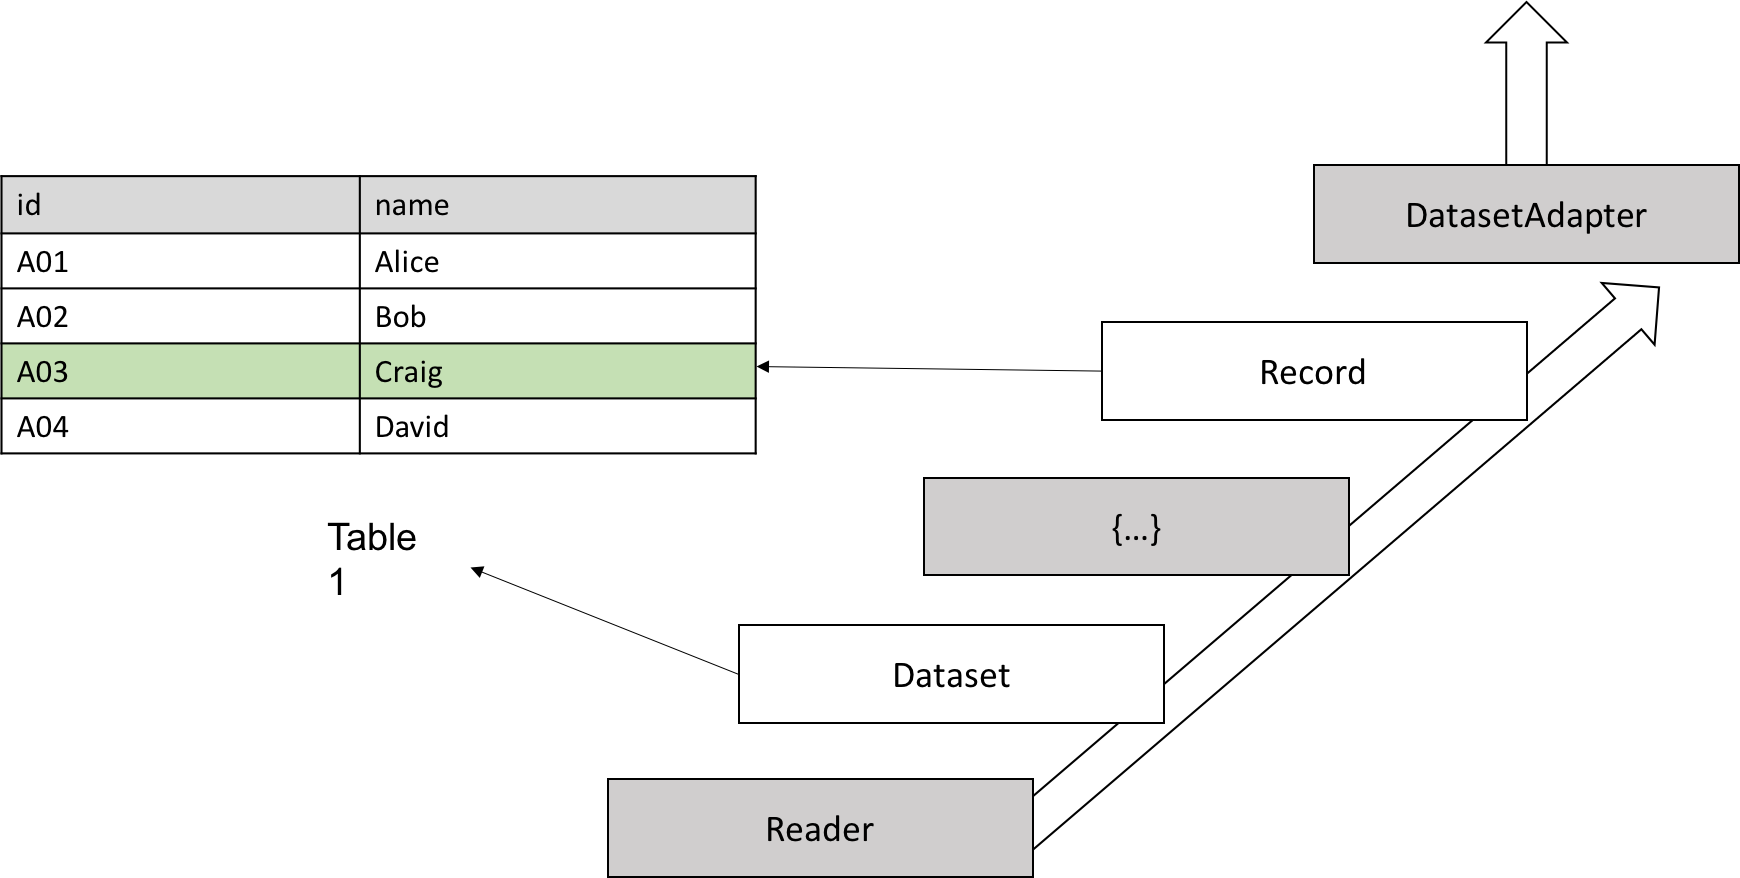
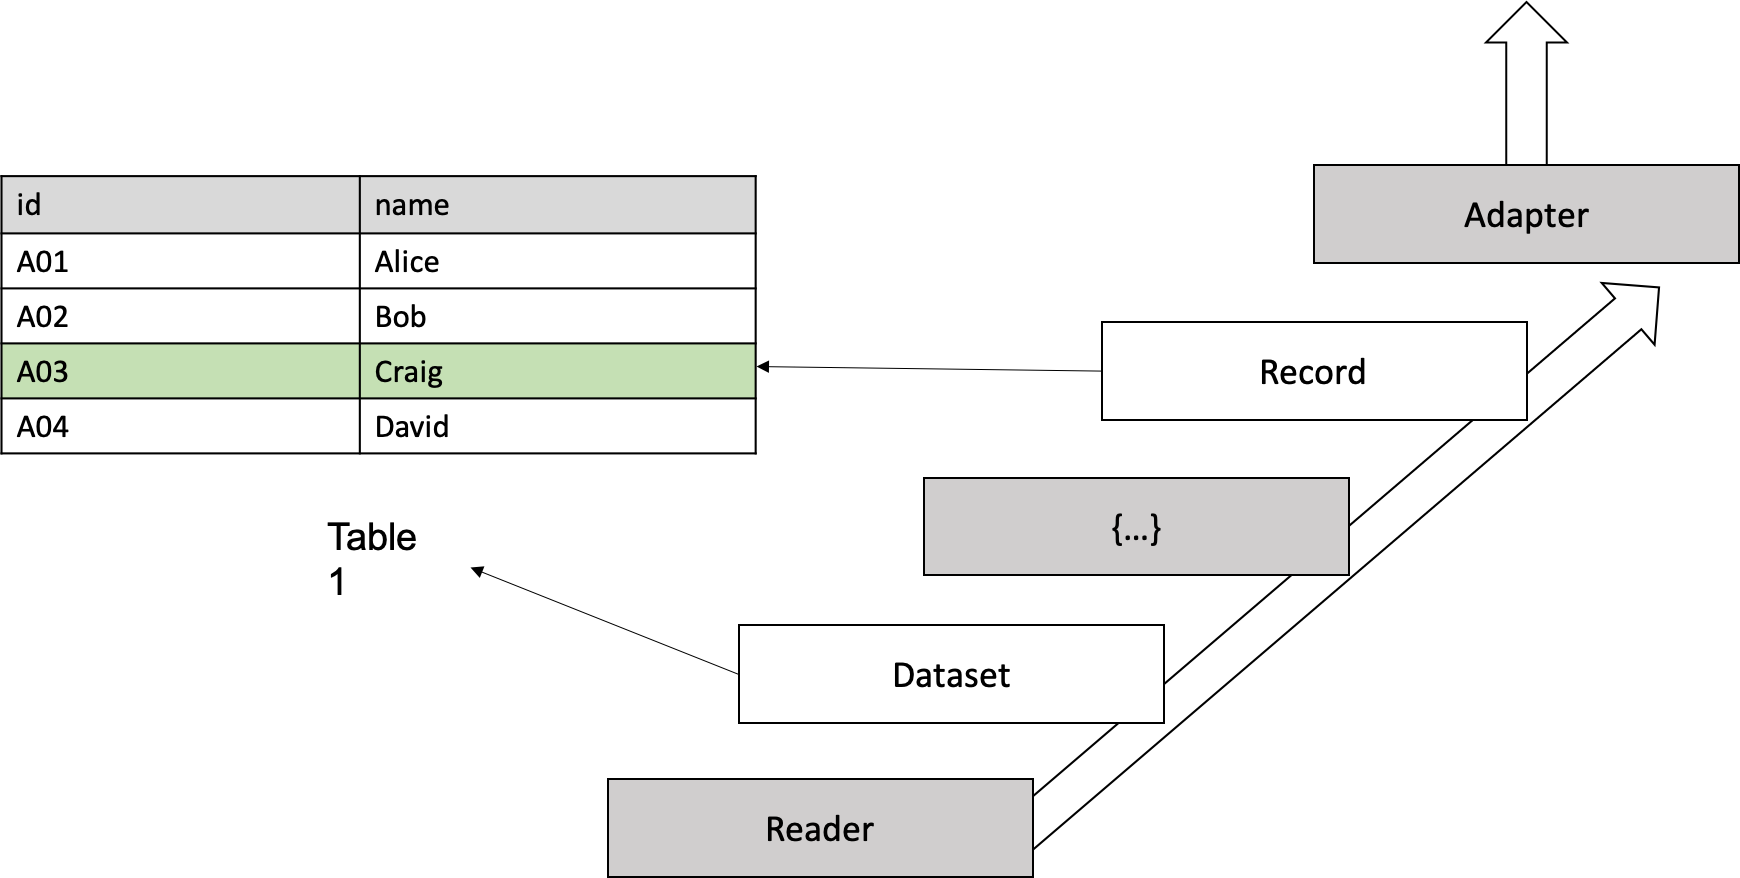
update blocking in overview

diff --git a/docs/overview.rst b/docs/overview.rst
@@ -38,11 +38,11 @@ In RLTK, every "row" in table is called ``Record``. Notice "row" here is a logic
 
 ``Reader`` is used to handle heterogeneous input. For each "row", the return of the ``Reader`` is represented in a Python dictionary, named ``raw_object`` (shown as grey ``{...}`` in figure). ``Record`` is generated based on ``raw_object``: user need to extend base ``Record`` class and add properties for later usage.
 
-``DatasetAdapter`` is where all ``Record`` s get stored. It can be either in memory or persistent.
+``KeyValueAdapter`` is where all ``Record`` s get stored. It can be either in memory or persistent.
 
-So, the data flow is: in order to create ``Dataset``, use ``Reader`` to read from input source and convert entity by entity to ``raw_object`` which is used to construct ``Record``, then store ``Record`` in ``DatasetAdapter``.
+So, the data flow is: in order to create ``Dataset``, use ``Reader`` to read from input source and convert entity by entity to ``raw_object`` which is used to construct ``Record``, then store ``Record`` in ``KeyValueAdapter``.
 
-Obviously, generating ``Record`` is really time consuming if the dataset is large, but if the concrete ``DatasetAdapter`` is a persistent one (e.g., ``HBaseDatasetAdapter``), then next time, ``Dataset`` can be loaded directly from this ``DatasetAdapter`` instead of regenerating again from raw input.
+Obviously, generating ``Record`` is really time consuming if the dataset is large, but if the concrete ``KeyValueAdapter`` is a persistent one (e.g., ``HBaseKeyValueAdapter``), then next time, ``Dataset`` can be loaded directly from this ``KeyValueAdapter`` instead of regenerating again from raw input.
 
 Minimal Workflow & Implementation
 ---------------------------------
@@ -84,9 +84,9 @@ Let's look at example input datasets and minimal implementation.
 
 
    ds1 = rltk.Dataset(reader=rltk.CSVReader('ds1.csv'),
-                        record_class=Record1, adapter=rltk.MemoryDatasetAdapter())
+                        record_class=Record1, adapter=rltk.MemoryKeyValueAdapter())
    ds2 = rltk.Dataset(reader=rltk.JsonLinesReader('ds2.jl'),
-                        record_class=Record2, adapter=rltk.DbmDatasetAdapter('file_index'))
+                        record_class=Record2, adapter=rltk.DbmKeyValueAdapter('file_index'))
 
    pairs = rltk.get_record_pairs(ds1, ds2)
    for r1, r2 in pairs:
@@ -155,14 +155,13 @@ Blocks need to be calculated and passed while generating candidate pairs. Blocks
       return r2.full_name.split(' ')[0]
 
    bg = rltk.HashBlockGenerator()
-   ks_adapter = bg.generate(
+   block = bg.generate(
                   bg.block(ds1, property_='first_name'),
                   bg.block(ds2, function_=get_first_name)),
-   pairs = rltk.get_record_pairs(ds1, ds2, block_reader=rltk.BlockReader(ks_adapter))
+   pairs = rltk.get_record_pairs(ds1, ds2, block=block)
    for r1, r2 in pairs:
        print(r1.id, r1.full_name, '\t', r2.id, r2.full_name)
 
-One thing to notice here is that the intermediate and the final blocks store in ``KeySetAdapter``, but user can access blocks through ``BlockReader`` and ``BlockWriter`` which based on a certain ``KeySetAdapter``.
 
 Summary
 -------
